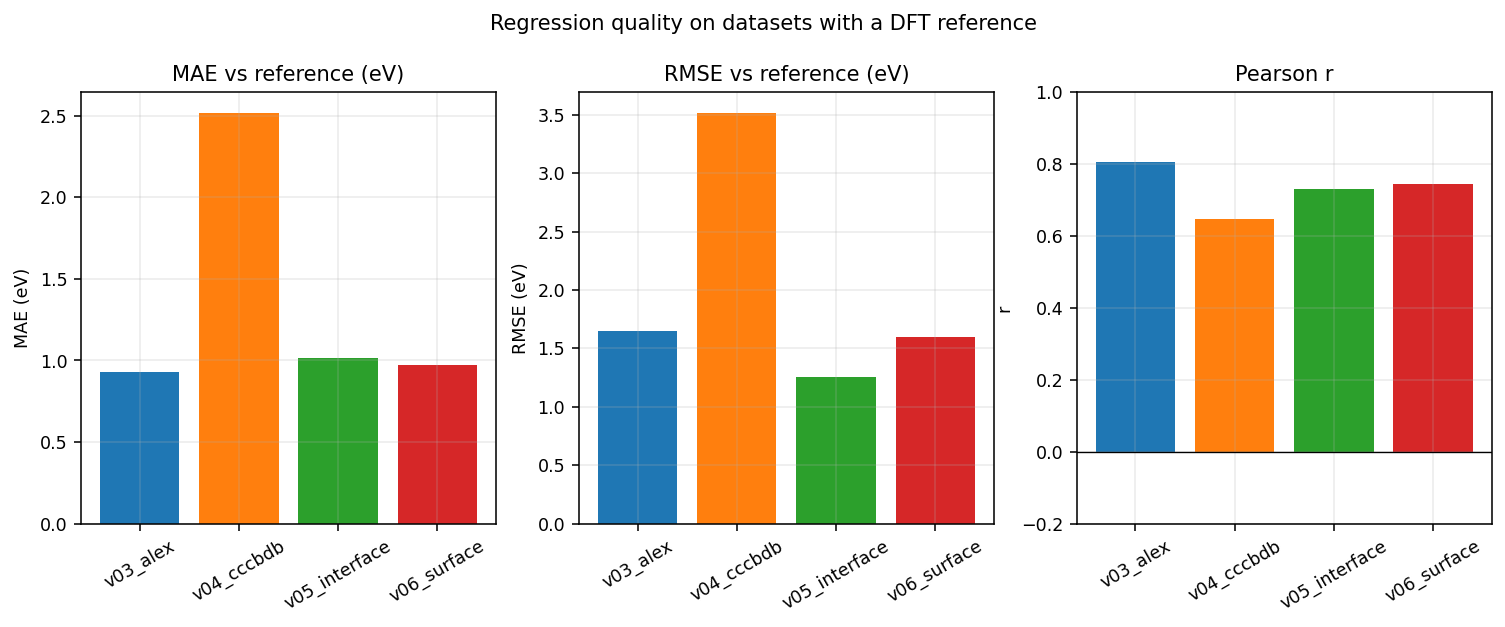
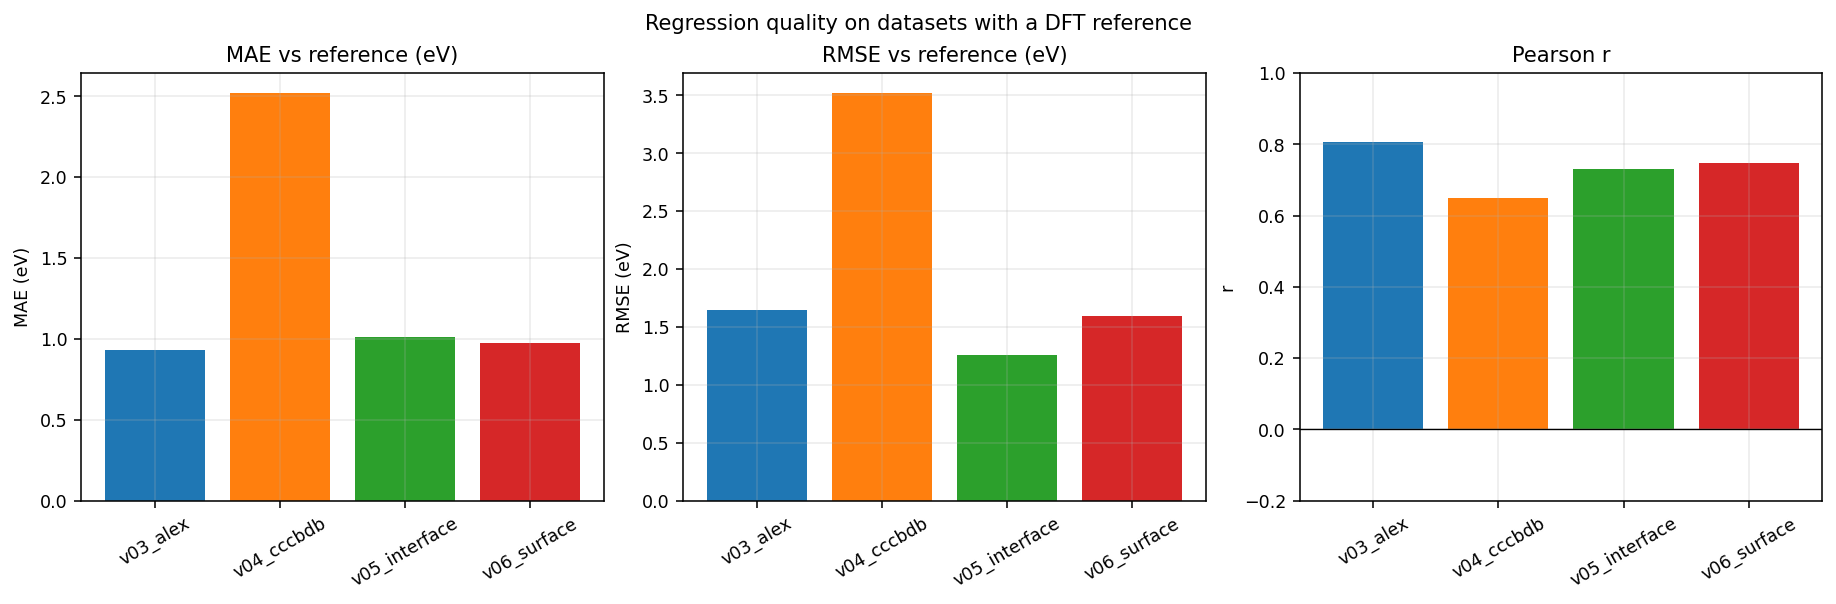
Fix overlapping subplot titles in cross-dataset plots
The grid plots (gap_distributions, parity_grid, dos_average_grid) used
default matplotlib spacing, which caused two-line subplot titles on the
bottom row to collide with the top row's x-axis labels — titles rendered
garbled in several panels. Switch all seven plot functions in
build_analysis.py to constrained_layout=True and drop the manual y-nudges
on suptitle. Regenerate all PNGs.

diff --git a/slakonet/comprehensive_analysis/build_analysis.py b/slakonet/comprehensive_analysis/build_analysis.py
@@ -241,7 +241,7 @@ def palette(n: int) -> list:
 
 
 def plot_dataset_overview(datasets: list[Dataset]) -> None:
-    fig, axes = plt.subplots(1, 3, figsize=(14, 4))
+    fig, axes = plt.subplots(1, 3, figsize=(14, 4), constrained_layout=True)
     keys = [d.key for d in datasets]
     colors = palette(len(datasets))
 
@@ -280,7 +280,7 @@ def plot_dataset_overview(datasets: list[Dataset]) -> None:
     axes[2].set_title("Predicted gap magnitude")
     axes[2].invert_yaxis()
 
-    fig.suptitle("SlakoNet cross-dataset overview", fontsize=12, y=1.02)
+    fig.suptitle("SlakoNet cross-dataset overview", fontsize=12)
     fig.savefig(OUT / "dataset_overview.png")
     plt.close(fig)
 
@@ -289,7 +289,7 @@ def plot_gap_distributions(datasets: list[Dataset]) -> None:
     n = len(datasets)
     ncol = 3
     nrow = math.ceil(n / ncol)
-    fig, axes = plt.subplots(nrow, ncol, figsize=(4.2 * ncol, 3.0 * nrow), sharex=True)
+    fig, axes = plt.subplots(nrow, ncol, figsize=(4.2 * ncol, 3.2 * nrow), sharex=True, constrained_layout=True)
     axes = np.atleast_2d(axes)
     bins = np.linspace(0, 15, 61)
     for ax, ds in zip(axes.flat, datasets):
@@ -308,7 +308,7 @@ def plot_gap_distributions(datasets: list[Dataset]) -> None:
     # hide unused subplots
     for ax in axes.flat[n:]:
         ax.axis("off")
-    fig.suptitle("SlakoNet gap distributions (reference gap overlaid where available)", y=1.01)
+    fig.suptitle("SlakoNet gap distributions (reference gap overlaid where available)")
     fig.savefig(OUT / "gap_distributions.png")
     plt.close(fig)
 
@@ -320,7 +320,7 @@ def plot_parity_grid(datasets: list[Dataset]) -> None:
     n = len(ref_sets)
     ncol = min(3, n)
     nrow = math.ceil(n / ncol)
-    fig, axes = plt.subplots(nrow, ncol, figsize=(4.3 * ncol, 4.0 * nrow))
+    fig, axes = plt.subplots(nrow, ncol, figsize=(4.5 * ncol, 4.3 * nrow), constrained_layout=True)
     axes = np.atleast_1d(axes).flatten()
     for ax, ds in zip(axes, ref_sets):
         ref = ds.frame[ds.reference].values
@@ -339,7 +339,7 @@ def plot_parity_grid(datasets: list[Dataset]) -> None:
         fig.colorbar(hb, ax=ax, shrink=0.85, label="log10 count")
     for ax in axes[n:]:
         ax.axis("off")
-    fig.suptitle("SlakoNet parity against reference DFT gaps", y=1.02)
+    fig.suptitle("SlakoNet parity against reference DFT gaps")
     fig.savefig(OUT / "parity_grid.png")
     plt.close(fig)
 
@@ -348,7 +348,7 @@ def plot_residuals(datasets: list[Dataset]) -> None:
     ref_sets = [d for d in datasets if d.has_reference]
     if not ref_sets:
         return
-    fig, ax = plt.subplots(figsize=(8, 5))
+    fig, ax = plt.subplots(figsize=(8, 5), constrained_layout=True)
     colors = palette(len(ref_sets))
     bins = np.linspace(-8, 10, 73)
     for ds, color in zip(ref_sets, colors):
@@ -384,7 +384,7 @@ def plot_error_summary(datasets: list[Dataset]) -> pd.DataFrame:
     # bar chart
     ref_df = df.dropna(subset=["MAE_eV"]).copy()
     if len(ref_df):
-        fig, axes = plt.subplots(1, 3, figsize=(13, 4))
+        fig, axes = plt.subplots(1, 3, figsize=(13, 4.2), constrained_layout=True)
         colors = palette(len(ref_df))
         axes[0].bar(ref_df["dataset"], ref_df["MAE_eV"], color=colors)
         axes[0].set_title("MAE vs reference (eV)")
@@ -403,7 +403,7 @@ def plot_error_summary(datasets: list[Dataset]) -> pd.DataFrame:
         axes[2].axhline(0, color="k", lw=0.7)
         axes[2].tick_params(axis="x", rotation=30)
 
-        fig.suptitle("Regression quality on datasets with a DFT reference", y=1.02)
+        fig.suptitle("Regression quality on datasets with a DFT reference")
         fig.savefig(OUT / "error_summary.png")
         plt.close(fig)
     return df
@@ -470,7 +470,7 @@ def plot_dos_grid(datasets: list[Dataset]) -> None:
     n = len(series)
     ncol = 3
     nrow = math.ceil(n / ncol)
-    fig, axes = plt.subplots(nrow, ncol, figsize=(4.5 * ncol, 3.0 * nrow), sharex=True)
+    fig, axes = plt.subplots(nrow, ncol, figsize=(4.5 * ncol, 3.3 * nrow), sharex=True, constrained_layout=True)
     axes = np.atleast_1d(axes).flatten()
     for ax, (ds, en, dos, nsamp) in zip(axes, series):
         ax.plot(en, dos, color="#2166ac", lw=1.2)
@@ -481,7 +481,7 @@ def plot_dos_grid(datasets: list[Dataset]) -> None:
         ax.set_ylabel("DOS (arb.)")
     for ax in axes[n:]:
         ax.axis("off")
-    fig.suptitle("Mean SlakoNet DOS per dataset (Fermi-aligned)", y=1.01)
+    fig.suptitle("Mean SlakoNet DOS per dataset (Fermi-aligned)")
     fig.savefig(OUT / "dos_average_grid.png")
     plt.close(fig)
 
@@ -492,7 +492,7 @@ def plot_v08_extras(datasets: list[Dataset]) -> None:
         return
     df = v08.frame.copy()
     df = df[(df["Tc_K"] >= 0) & (df["Tc_K"] < 200)]
-    fig, axes = plt.subplots(1, 3, figsize=(13, 4))
+    fig, axes = plt.subplots(1, 3, figsize=(13, 4.2), constrained_layout=True)
     axes[0].scatter(df["sk_bandgap_eV"], df["Tc_K"], s=4, alpha=0.35, color="#2166ac")
     axes[0].set_xscale("symlog", linthresh=0.01)
     axes[0].set_xlabel("SlakoNet gap (eV, symlog)")
@@ -509,7 +509,7 @@ def plot_v08_extras(datasets: list[Dataset]) -> None:
     axes[2].set_ylabel("Tc (K)")
     axes[2].set_title("Tc vs λ (Eliashberg)")
 
-    fig.suptitle("v08 supercon: Tc correlations", y=1.02)
+    fig.suptitle("v08 supercon: Tc correlations")
     fig.savefig(OUT / "v08_tc_correlations.png")
     plt.close(fig)
 
